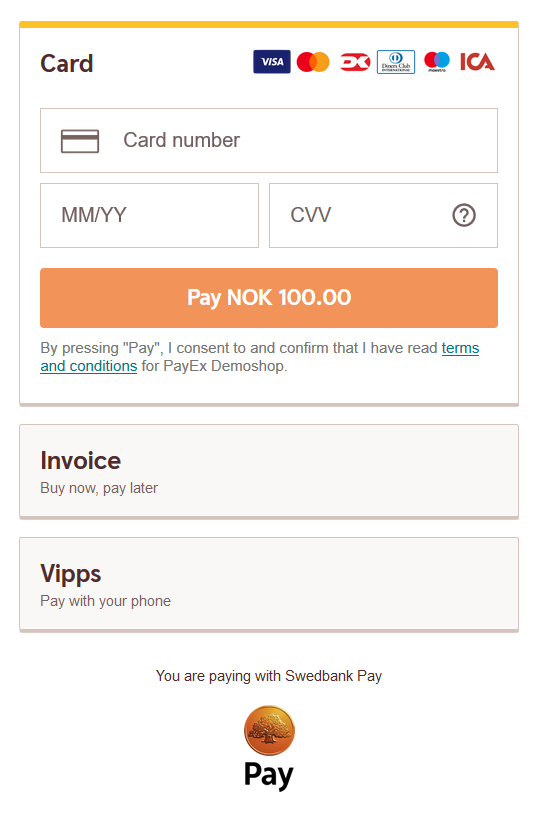
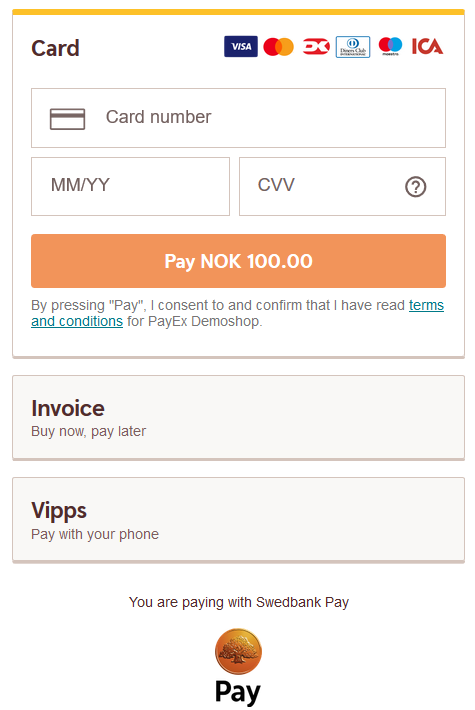
dx-469 Added new images in checkout parts except "other features"

diff --git a/checkout/checkin.md b/checkout/checkin.md
@@ -205,7 +205,7 @@ With the scripts loading in after the entire page is loaded, we can access the
 After that has all loaded, you should see something like this:
 
 {:.text-center}
-![Consumer UI][checkin-image]{:width="564" height="293"}
+![Consumer UI][checkin-image]{:width="475" height="250"}
 
 As you can see, the payer's information is pre-filled as provided by the
 initial `POST`. With a `consumerProfileRef` safely tucked into our pocket,
@@ -247,16 +247,16 @@ sequenceDiagram
 If a browser refresh is performed after the payer has checked in, the payment
 menu must be shown even though `onConsumerIdentified` is not invoked.
 
-Additional events during Checkin  can also be implemented
-in the `configuration` object, such as `onConsumerIdentified`, `onShippingDetailsAvailable`and
-`onBillingDetailsAvailable`. Read more about these in the
-[Checkin events][checkin-events] section.
+Additional events during Checkin  can also be implemented in the `configuration`
+object, such as `onConsumerIdentified`, `onShippingDetailsAvailable`and
+`onBillingDetailsAvailable`. Read more about these in the [Checkin
+events][checkin-events] section.
 
 ### Note on consumer data
 
-During this stage some consumer data is stored.
-Read more about our [Data Protection Policy][data-protection] for details on which
-information we store and its duration.
+During this stage some consumer data is stored. Read more about our [Data
+Protection Policy][data-protection] for details on which information we store
+and its duration.
 
 {% include iterator.html prev_href="./"
                          prev_title="Back: Introduction"

diff --git a/checkout/payment-menu.md b/checkout/payment-menu.md
@@ -190,16 +190,16 @@ this, depending on whether the payer is logged in (top two) or a guest user
 or credit card. 
 
 {:.text-center}
-![Payment Menu with payer logged in and card payment opened][login-payment-menu-image]{:width="460" height="770"}
+![Payment Menu with payer logged in and card payment opened][login-payment-menu-image]{:width="475" height="760"}
 
 {:.text-center}
-![Payment Menu with swedish payer logged in and card payment opened][swedish-login-payment-menu-image]{:width="460" height="1150"}
+![Payment Menu with swedish payer logged in and card payment opened][swedish-login-payment-menu-image]{:width="475" height="800"}
 
 {:.text-center}
-![Payment Menu with guest payer and card payment opened][guest-payment-menu-image]{:width="535" height="815"}
+![Payment Menu with guest payer and card payment opened][guest-payment-menu-image]{:width="475" height="710"}
 
 {:.text-center}
-![Payment Menu with swedish guest payer and card payment opened][swedish-guest-payment-menu-image]{:width="535" height="930"}
+![Payment Menu with swedish guest payer and card payment opened][swedish-guest-payment-menu-image]{:width="475" height="965"}
 
 When the consumer completes the payment, the Payment Menu script will be
 signaled and a full redirect to the `completeUrl` sent in with the
